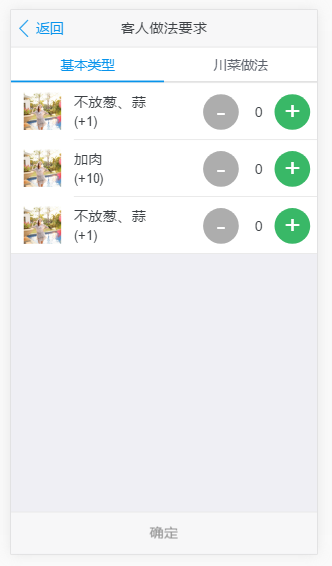
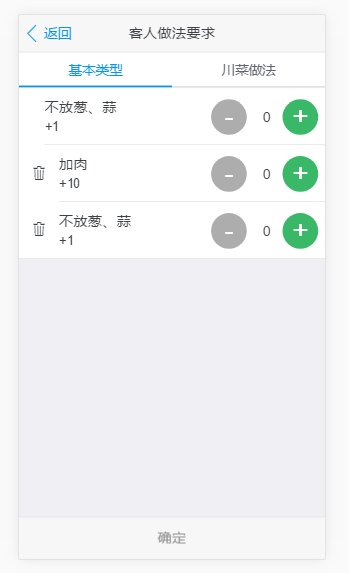
做法点击清除

diff --git a/dishOrder.html b/dishOrder.html
@@ -1102,13 +1102,13 @@
                             <ul>
                                 <li>
                                     <a href="#" class="item-link item-content">
-                                      <!--   <div class="item-media cusomer-remove-ico"><i class="icon icon-remove"></i></div> -->
-                                       <div class="item-media  cusomer-remove-ico"><img src="http://gqianniu.alicdn.com/bao/uploaded/i4//tfscom/i3/TB10LfcHFXXXXXKXpXXXXXXXXXX_!!0-item_pic.jpg_250x250q60.jpg" style="width: 2.2rem;"></div>
+                                        <div class="item-media cusomer-remove-ico" style="display: none;"><i class="icon icon-remove"></i></div>
+
                                         <div class="item-inner">
                                             <div class="item-title-row">
                                                 <div class="item-title">不放葱、蒜</div>
                                             </div>
-                                            <div class="item-subtitle">(+1)</div>
+                                            <div class="item-subtitle">+1</div>
                                             <div class="list-cart customer-add-button" data-price="300" data-barcode="5366977545" data-mealid="10628113059671202" data-mealbh="1002" data-typeid="101" data-tc="N" data-cz="N" data-sjc="N">
                                                 <div class="customer-remove">-</div>
                                                 <div class="customer-num">
@@ -1121,12 +1121,12 @@
                                 </li>
                                 <li>
                                     <a href="#" class="item-link item-content">
-                                        <div class="item-media  cusomer-remove-ico"><img src="http://gqianniu.alicdn.com/bao/uploaded/i4//tfscom/i3/TB10LfcHFXXXXXKXpXXXXXXXXXX_!!0-item_pic.jpg_250x250q60.jpg" style="width: 2.2rem;"></div>
+                                        <div class="item-media cusomer-remove-ico"><i class="icon icon-remove"></i></div>
                                         <div class="item-inner">
                                             <div class="item-title-row">
                                                 <div class="item-title">加肉</div>
                                             </div>
-                                            <div class="item-subtitle">(+10)</div>
+                                            <div class="item-subtitle">+10</div>
                                             <div class="list-cart customer-add-button" data-price="300" data-barcode="5366977545" data-mealid="10628113059671202" data-mealbh="1002" data-typeid="101" data-tc="N" data-cz="N" data-sjc="N">
                                                 <div class="customer-remove">-</div>
                                                 <div class="customer-num">
@@ -1139,12 +1139,12 @@
                                 </li>
                                 <li>
                                     <a href="#" class="item-link item-content">
-                                       <div class="item-media  cusomer-remove-ico"><img src="http://gqianniu.alicdn.com/bao/uploaded/i4//tfscom/i3/TB10LfcHFXXXXXKXpXXXXXXXXXX_!!0-item_pic.jpg_250x250q60.jpg" style="width: 2.2rem;"></div>
+                                       <div class="item-media cusomer-remove-ico"><i class="icon icon-remove"></i></div>
                                         <div class="item-inner">
                                             <div class="item-title-row">
                                                 <div class="item-title">不放葱、蒜</div>
                                             </div>
-                                            <div class="item-subtitle">(+1)</div>
+                                            <div class="item-subtitle">+1</div>
                                             <div class="list-cart customer-add-button" data-price="300" data-barcode="5366977545" data-mealid="10628113059671202" data-mealbh="1002" data-typeid="101" data-tc="N" data-cz="N" data-sjc="N">
                                                 <div class="customer-remove">-</div>
                                                 <div class="customer-num">
@@ -1163,12 +1163,12 @@
                             <ul>
                                 <li>
                                     <a href="#" class="item-link item-content">
-                                        <div class="item-media  cusomer-remove-ico"><img src="http://gqianniu.alicdn.com/bao/uploaded/i4//tfscom/i3/TB10LfcHFXXXXXKXpXXXXXXXXXX_!!0-item_pic.jpg_250x250q60.jpg" style="width: 2.2rem;"></div>
+                                        <div class="item-media cusomer-remove-ico"><i class="icon icon-remove"></i></div>
                                         <div class="item-inner">
                                             <div class="item-title-row">
                                                 <div class="item-title">不放葱、蒜</div>
                                             </div>
-                                            <div class="item-subtitle">(+1)</div>
+                                            <div class="item-subtitle">+1</div>
                                             <div class="list-cart customer-add-button" data-price="300" data-barcode="5366977545" data-mealid="10628113059671202" data-mealbh="1002" data-typeid="101" data-tc="N" data-cz="N" data-sjc="N">
                                                 <div class="customer-remove">-</div>
                                                 <div class="customer-num">
@@ -1181,12 +1181,12 @@
                                 </li>
                                 <li>
                                     <a href="#" class="item-link item-content">
-                                        <div class="item-media  cusomer-remove-ico"><img src="http://gqianniu.alicdn.com/bao/uploaded/i4//tfscom/i3/TB10LfcHFXXXXXKXpXXXXXXXXXX_!!0-item_pic.jpg_250x250q60.jpg" style="width: 2.2rem;"></div>
+                                        <div class="item-media cusomer-remove-ico"><i class="icon icon-remove"></i></div>
                                         <div class="item-inner">
                                             <div class="item-title-row">
                                                 <div class="item-title">加肉</div>
                                             </div>
-                                            <div class="item-subtitle">(+10)</div>
+                                            <div class="item-subtitle">+10</div>
                                             <div class="list-cart customer-add-button" data-price="300" data-barcode="5366977545" data-mealid="10628113059671202" data-mealbh="1002" data-typeid="101" data-tc="N" data-cz="N" data-sjc="N">
                                                 <div class="customer-remove">-</div>
                                                 <div class="customer-num">
